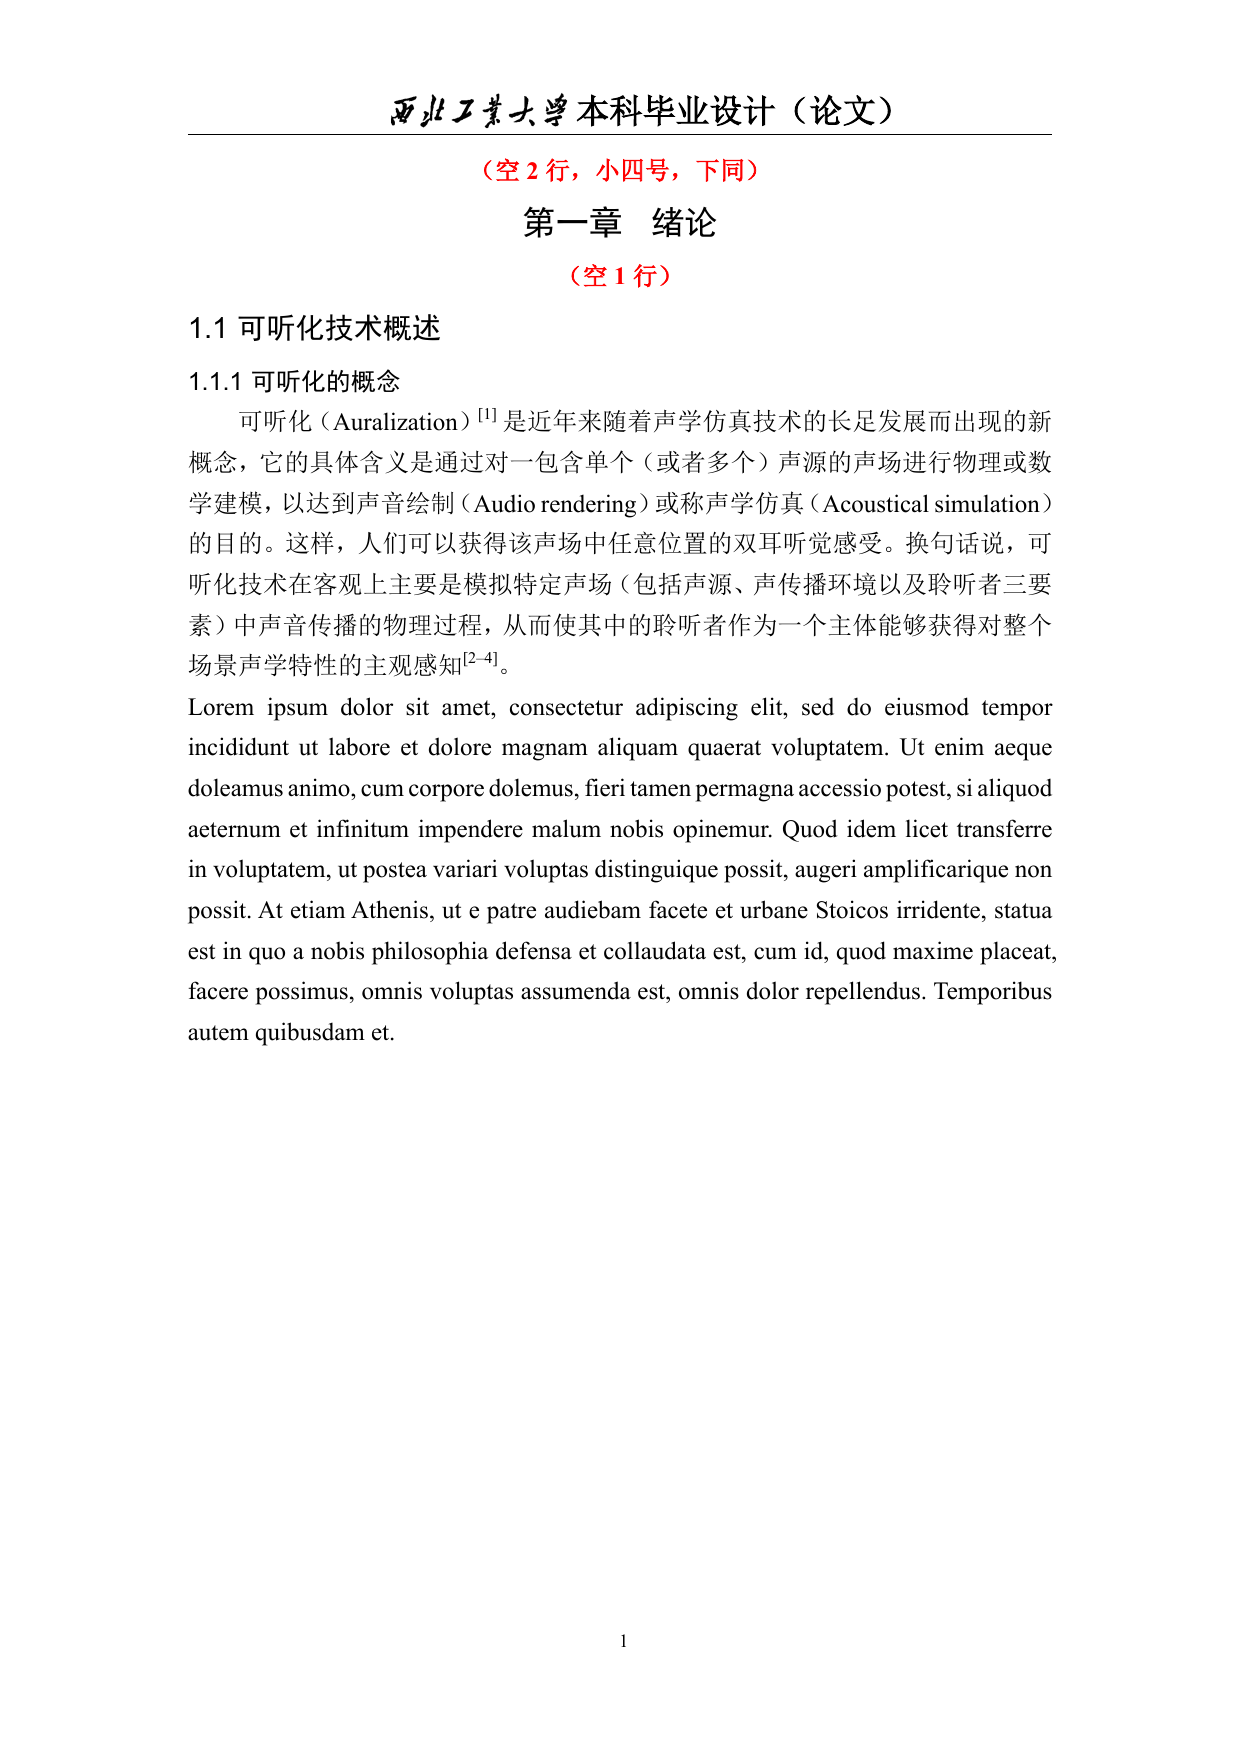
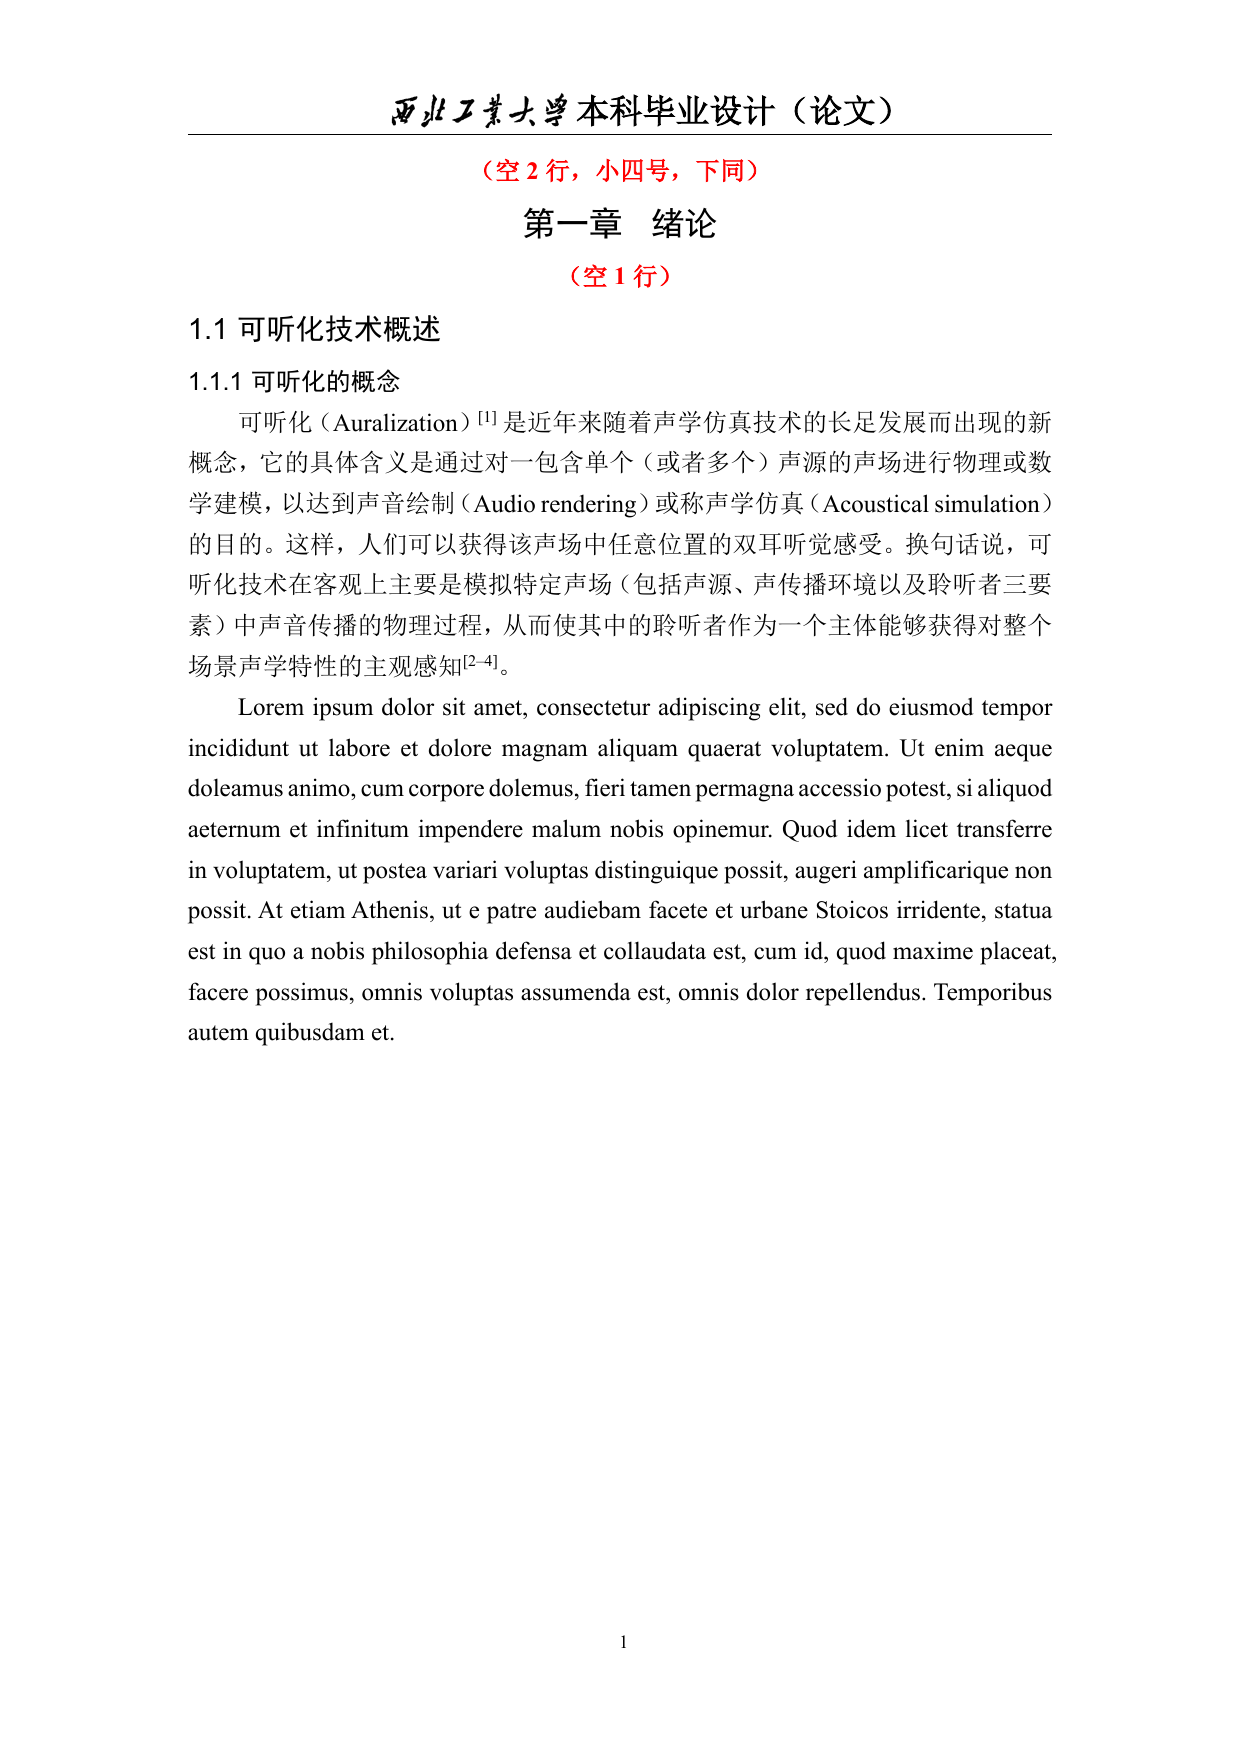
set indent as default; correct spacing in contents table; add image parameter; fix table/image/bib citation format; validated: contents table, citations; update and better readme e.g. visual comparison

diff --git a/test/validate_3.py b/test/validate_3.py
@@ -1,0 +1,188 @@
+"""Compare citation superscript vertical offsets: test_sty.pdf vs docx_template.pdf.
+
+Citations are small "[...]" runs (superscripts) attached to body text lines.
+For every citation in each PDF we measure how far it sits above the containing
+line's body glyphs (top and bottom offsets) as well as its absolute position,
+then report the docx-vs-typst difference.
+
+Output: test/validate_3.md (and the same report to stdout).
+"""
+
+from __future__ import annotations
+
+import re
+from collections import Counter
+from pathlib import Path
+
+import pdfplumber as pb
+
+
+CANON = "docx_template.pdf"   # canonical WPS-rendered docx template
+MIMIC = "test_sty.pdf"        # typst output to validate
+
+Y_TOL = 3.0                   # pt: chars within this vertical distance share a line
+SMALL_FRAC = 0.8              # citation glyphs are < 0.8 * the line's dominant size
+CIT_RE = re.compile(r"^\[[0-9~\-–,; ]+\]$")
+SUBSET_RE = re.compile(r"^[A-Z0-9]{6}\+")
+
+
+def fam(fontname: str) -> str:
+    return SUBSET_RE.sub("", fontname)
+
+
+def find_citations(pdf_path: str) -> list[dict]:
+    """Return citation runs in document order, with line-relative offsets."""
+    cites: list[dict] = []
+    with pb.open(pdf_path) as pdf:
+        for pi, pg in enumerate(pdf.pages):
+            chars = sorted(pg.chars, key=lambda c: (round(c["top"], 3), c["x0"]))
+            lines: list[list] = []
+            for c in chars:
+                if lines and c["top"] - min(x["top"] for x in lines[-1]) <= Y_TOL:
+                    lines[-1].append(c)
+                else:
+                    lines.append([c])
+
+            for line in lines:
+                cs = sorted(line, key=lambda c: (round(c["x0"], 3), round(c["top"], 3)))
+                if not cs:
+                    continue
+                dominant = Counter(round(c["size"], 3) for c in cs).most_common(1)[0][0]
+                body = [c for c in cs
+                        if c["size"] >= SMALL_FRAC * dominant and c["text"].strip()]
+                if not body:
+                    continue
+                body_top = min(c["top"] for c in body)
+                body_bottom = max(c["bottom"] for c in body)
+                line_text = "".join(c["text"] for c in cs)
+
+                # Contiguous runs of small (superscript) glyphs.
+                runs: list[list[int]] = []
+                for i, c in enumerate(cs):
+                    if c["size"] >= SMALL_FRAC * dominant:
+                        continue
+                    if runs and i == runs[-1][-1] + 1:
+                        runs[-1].append(i)
+                    else:
+                        runs.append([i])
+
+                for run in runs:
+                    rcs = [cs[i] for i in run]
+                    text = "".join(c["text"] for c in rcs)
+                    if not CIT_RE.match(text):
+                        continue
+                    cites.append(
+                        {
+                            "page": pi + 1,
+                            "text": text,
+                            "line": line_text,
+                            "top": min(c["top"] for c in rcs),
+                            "bottom": max(c["bottom"] for c in rcs),
+                            "size": max(c["size"] for c in rcs),
+                            "font": fam(
+                                Counter(c["fontname"] for c in rcs).most_common(1)[0][0]
+                            ),
+                            "body_top": body_top,
+                            "body_bottom": body_bottom,
+                            "d_top": min(c["top"] for c in rcs) - body_top,
+                            "d_bottom": max(c["bottom"] for c in rcs) - body_bottom,
+                        }
+                    )
+    return cites
+
+
+def main() -> None:
+    out: list[str] = []
+
+    def emit(s: str = "") -> None:
+        print(s)
+        out.append(s)
+
+    ca = find_citations(CANON)
+    cb = find_citations(MIMIC)
+
+    emit(f"# Citation vertical-offset validation: {CANON} (canonical) vs {MIMIC} (typst)")
+    emit()
+    emit(f"- citations found: docx {len(ca)}, typst {len(cb)}")
+    emit()
+
+    emit("## Found citations")
+    emit()
+    emit("| # | docx | typst |")
+    emit("|---:|:--|:--|")
+    for i in range(max(len(ca), len(cb))):
+        a = ca[i] if i < len(ca) else None
+        b = cb[i] if i < len(cb) else None
+        emit(f"| {i + 1} | {a['text'] if a else '-'} (p{a['page'] if a else '-'}) | "
+             f"{b['text'] if b else '-'} (p{b['page'] if b else '-'}) |")
+    emit()
+
+    emit("## Offset comparison (per paired citation)")
+    emit()
+    emit("| # | text | dTop docx | dTop typst | ΔdTop | dBot docx | dBot typst | "
+         "ΔdBot | abs ΔTop |")
+    emit("|---:|:--|--:|--:|--:|--:|--:|--:|--:|")
+
+    n = min(len(ca), len(cb))
+    rows = []
+    for i in range(n):
+        a, b = ca[i], cb[i]
+        d_dtop = b["d_top"] - a["d_top"]
+        d_dbot = b["d_bottom"] - a["d_bottom"]
+        abs_dtop = b["top"] - a["top"]
+        rows.append(
+            {
+                "i": i + 1,
+                "text": f"{a['text']} / {b['text']}",
+                "a_dtop": a["d_top"], "b_dtop": b["d_top"], "d_dtop": d_dtop,
+                "a_dbot": a["d_bottom"], "b_dbot": b["d_bottom"], "d_dbot": d_dbot,
+                "abs_dtop": abs_dtop,
+                "a": a, "b": b,
+            }
+        )
+        emit(f"| {i + 1} | {a['text']} / {b['text']} | {a['d_top']:+.2f} | "
+             f"{b['d_top']:+.2f} | {d_dtop:+.2f} | {a['d_bottom']:+.2f} | "
+             f"{b['d_bottom']:+.2f} | {d_dbot:+.2f} | {abs_dtop:+.2f} |")
+    emit()
+
+    emit("## Details")
+    emit()
+    for r in rows:
+        a, b = r["a"], r["b"]
+        emit(f"### C{r['i']}: {a['text']} -> {b['text']}")
+        emit()
+        emit(f"- docx : page {a['page']}, top={a['top']:.2f}, bottom={a['bottom']:.2f}, "
+             f"size={a['size']:.2f}pt, font={a['font']}")
+        emit(f"- typst: page {b['page']}, top={b['top']:.2f}, bottom={b['bottom']:.2f}, "
+             f"size={b['size']:.2f}pt, font={b['font']}")
+        emit(f"- relative to line body: dTop docx={a['d_top']:+.2f} vs typst={b['d_top']:+.2f} "
+             f"-> {r['d_dtop']:+.2f}pt; dBot docx={a['d_bottom']:+.2f} vs "
+             f"typst={b['d_bottom']:+.2f} -> {r['d_dbot']:+.2f}pt")
+        emit(f"- absolute: typst citation top is {r['abs_dtop']:+.2f}pt vs docx "
+             f"(line body top itself: {b['body_top'] - a['body_top']:+.2f}pt)")
+        emit(f"- line: `{a['line'][:38]}...` -> `{b['line'][:38]}...`")
+        emit()
+
+    emit("## Summary")
+    emit()
+    if rows:
+        mean_dtop = sum(r["d_dtop"] for r in rows) / len(rows)
+        mean_dbot = sum(r["d_dbot"] for r in rows) / len(rows)
+        emit(f"- paired citations: {n}")
+        emit(f"- mean ΔdTop (typst - docx): {mean_dtop:+.2f}pt")
+        emit(f"- mean ΔdBot (typst - docx): {mean_dbot:+.2f}pt")
+        emit("- interpretation: a negative Δ means the typst superscript sits "
+             "higher (smaller top / larger raise) than the docx one.")
+    else:
+        emit("- no paired citations to compare.")
+    if len(ca) != len(cb):
+        emit(f"- note: citation counts differ ({len(ca)} vs {len(cb)}); only the "
+             f"first {n} were paired.")
+
+    Path("test/validate_3.md").write_text("\n".join(out) + "\n", encoding="utf-8")
+    print()
+    print("written: test/validate_3.md")
+
+
+if __name__ == "__main__":
+    main()

diff --git a/test/validate_2.py b/test/validate_2.py
@@ -1,6 +1,6 @@
 import pdfplumber as pb
 
-target_text = "本科毕业设计（论文）（空2行，小四号，下同）目录（空1行）第一章绪论……"
+target_text = "本科毕业设计（论文）（空2行，小四号，下同）目录（空1行）第一章绪论……可听化技术概述第二章双耳模型"
 
 dir0,pg0 = "docx_template.pdf",14
 dir1,pg1 = "test_sty.pdf",2
@@ -16,10 +16,10 @@ i0, i1 = 0, 0
 
 for cand in target_text:
     while i0 < len0 and pg0.chars[i0]['text'] != cand:
-        print(f"skip {repr(pg0.chars[i0]['text'])}")
+        # print(f"skip {repr(pg0.chars[i0]['text'])}")
         i0+=1
     while i1 < len1 and pg1.chars[i1]['text'] != cand:
-        print(f"skip {repr(pg1.chars[i1]['text'])}")
+        # print(f"skip {repr(pg1.chars[i1]['text'])}")
         i1+=1
     if i0>=len0 or i1>=len1:
         print(f'can not find char {repr(cand)}')
@@ -29,10 +29,10 @@ for cand in target_text:
     i0+=1
     i1+=1
     print(f"{cand}: dx={c1['x0']-c0['x0']}, dy={c1['y1']-c0['y1']}")
-    if cand == '…':
-        print('compare the dots:')
-        print(c0)
-        print(c1)
+    # if cand == '…':
+    #     print('compare the dots:')
+    #     print(c0)
+    #     print(c1)
 
 print('edges (ref):')
 for e in pg0.edges:
@@ -45,3 +45,11 @@ for e in pg1.edges:
 
 print(pg0.edges[0])
 print(pg1.edges[1])
+
+for c in pg0.chars:
+    if c['text'] in "参致附毕":
+        print(c['y0'])
+
+for c in pg1.chars:
+    if c['text'] in "参致附毕":
+        print(c['y0'])

diff --git a/readme.md b/readme.md
@@ -23,12 +23,19 @@
 
 # validation & visual comparison
 
-docx 模板与 typst 输出的绪论页对比 (docx_template.pdf 第16页 vs test_sty.pdf 第4页):
+docx 模板与 typst 输出的页面对比:
 
 <div align="center">
 
+**绪论页** (docx_template.pdf 第16页 vs test_sty.pdf 第4页)
+
 <img src="ref/refpg1.png" alt="docx 模板 绪论页" width="45%">
 <img src="ref/refpg2.png" alt="typst 绪论页" width="45%">
+
+**目录页** (docx_template.pdf 第15页 vs test_sty.pdf 第3页)
+
+<img src="ref/refpg3.png" alt="docx 模板 目录页" width="45%">
+<img src="ref/refpg4.png" alt="typst 目录页" width="45%">
 
 </div>
 
@@ -52,7 +59,7 @@ docx 模板与 typst 输出的绪论页对比 (docx_template.pdf 第16页 vs tes
   - [x] 公式编号为英文内容, baseline对齐
 - 段落
   - [ ] justify
-  - [ ] 默认缩进
+  - [x] 默认缩进
   - [x] 多行公式间距
 - 页面
   - [x] 页眉3.18cm,距离顶部1.5cm,logo+文字+横线
@@ -65,6 +72,7 @@ docx 模板与 typst 输出的绪论页对比 (docx_template.pdf 第16页 vs tes
   - [x] 增加公式块padding
 - 目录
   - [x] 正文字体, 一级标题加粗, 缩进 (1.7em?)
+  - [x] 一级标题间和子标题间的间距(3.9pt, 7.8pt)
 - 公式
   - [x] 公式编号, 对齐
 - 图表
@@ -72,7 +80,11 @@ docx 模板与 typst 输出的绪论页对比 (docx_template.pdf 第16页 vs tes
   - [x] 图题宋体五号,位置
   - [x] 表题黑体五号,位置
   - [x] x1.5行距
-  - [ ] 图表引用格式
+  - [x] 图默认宽9cm
+- 引用 
+  - [x] 图表引用格式
+  - [x] 公式引用格式
+  - [x] 文献引用格式
 - 摘要,正文,参考文献
   - [x] 正文前后的编号
   - [x] 参考文献与引用格式
@@ -80,9 +92,8 @@ docx 模板与 typst 输出的绪论页对比 (docx_template.pdf 第16页 vs tes
 
 # todos
 - 行距,字体设置/检查 (90%)
-- 引用标记高度
-- 包装图表前后行
 - 数字对齐
+- 参考文献中英文格式
 
 # license
 [Unlicense: freely and unencumberedly released to public domain](./LICENSE).
